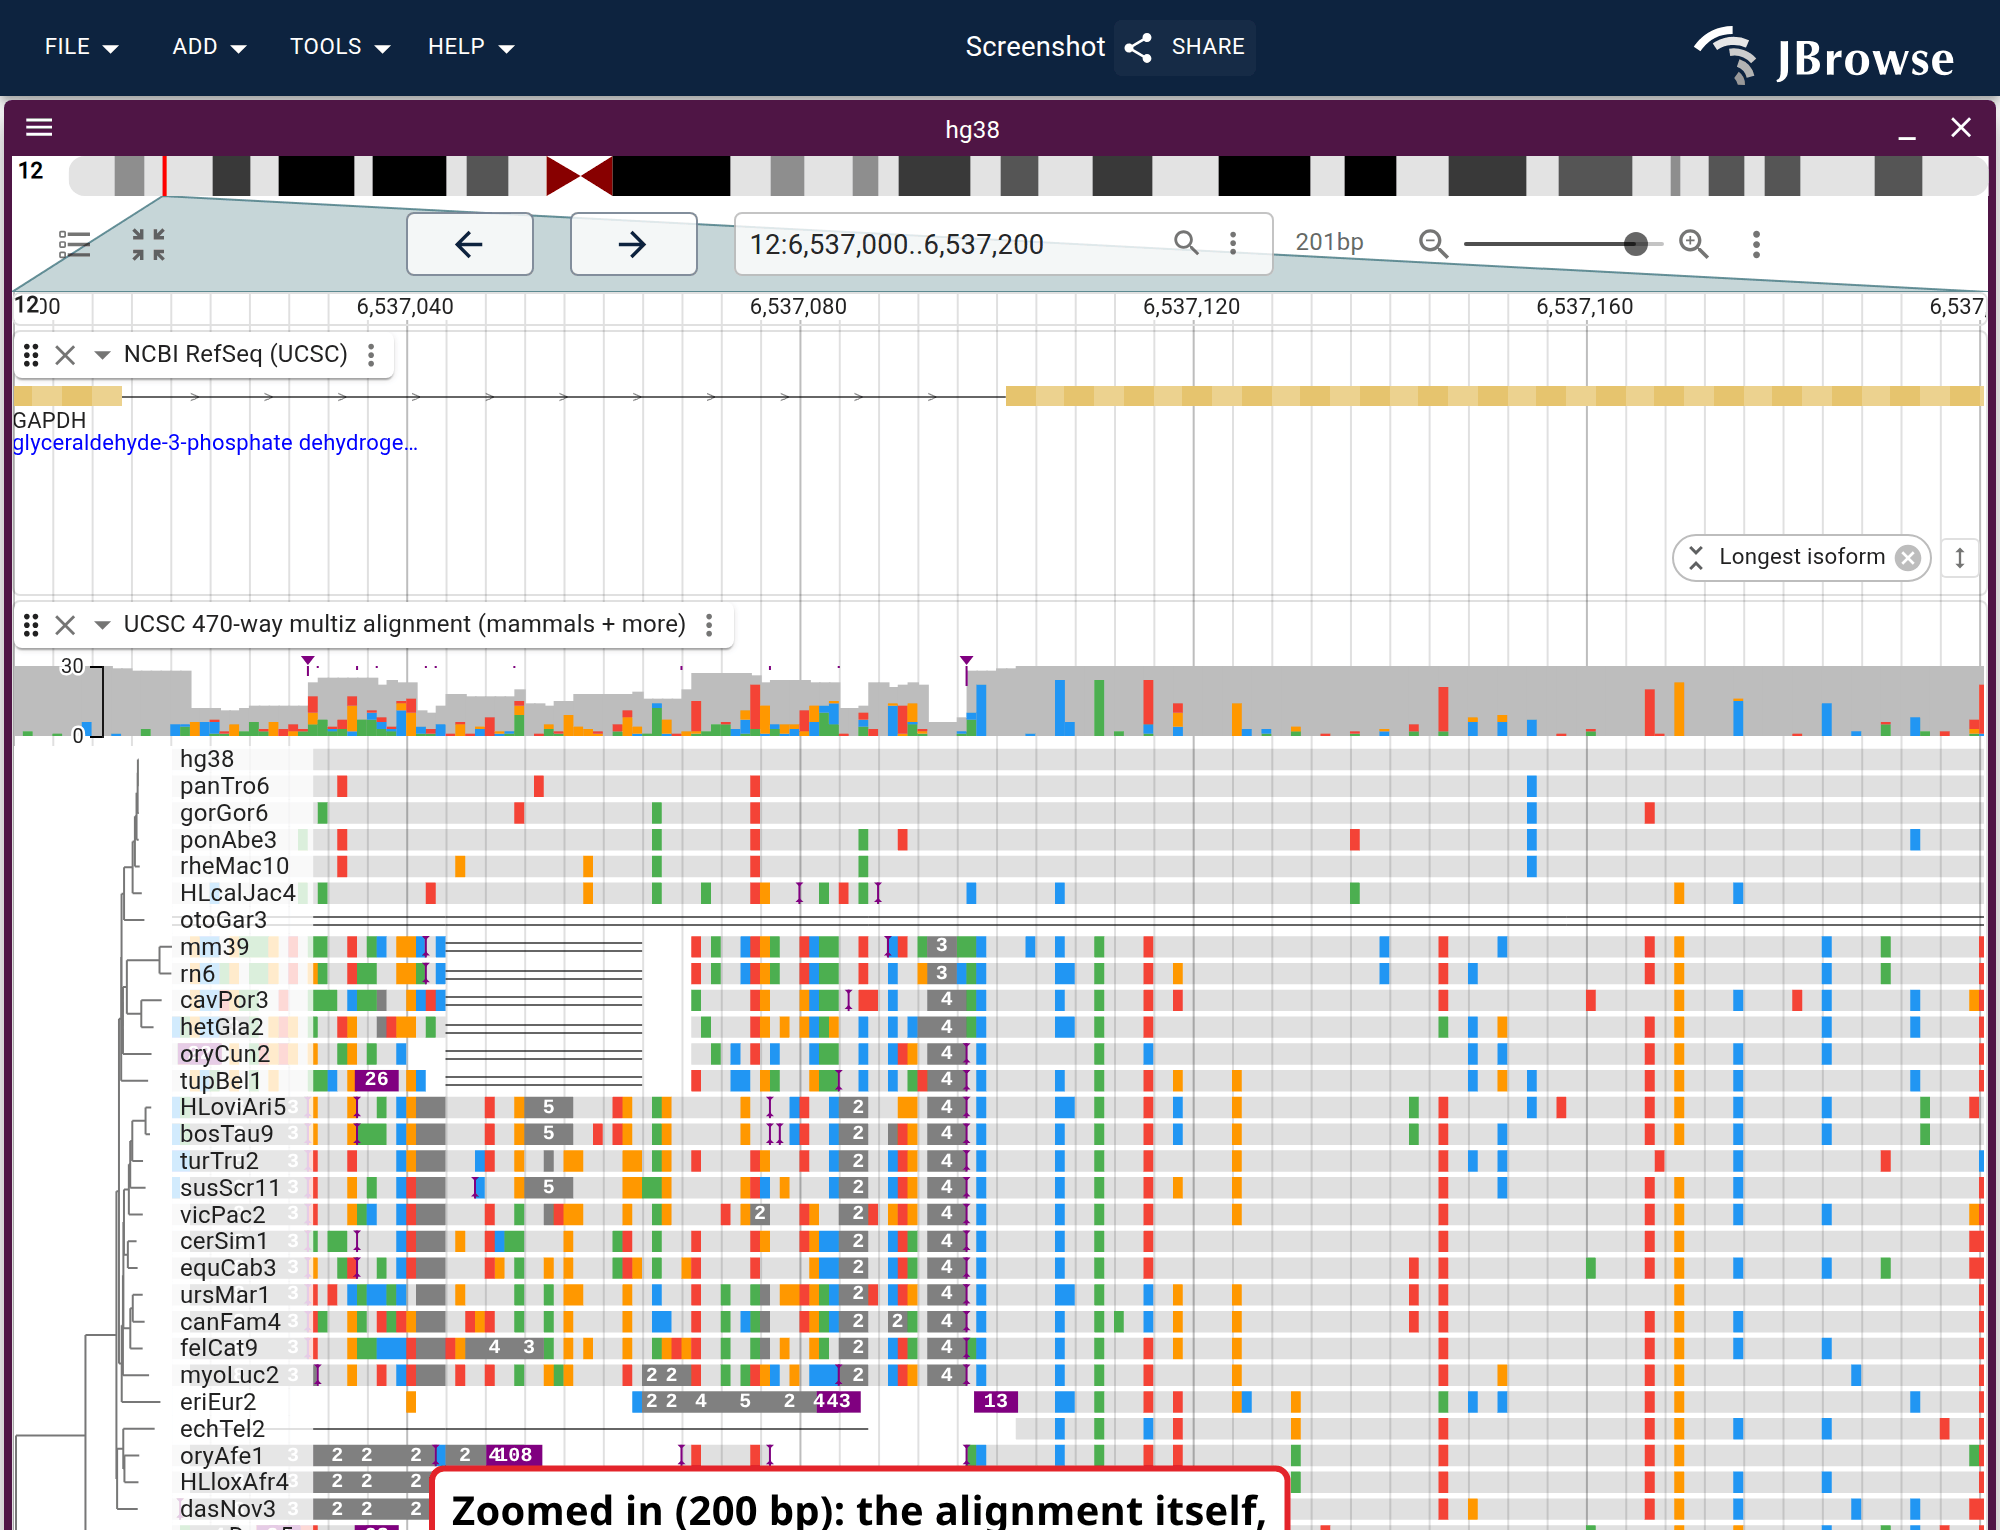
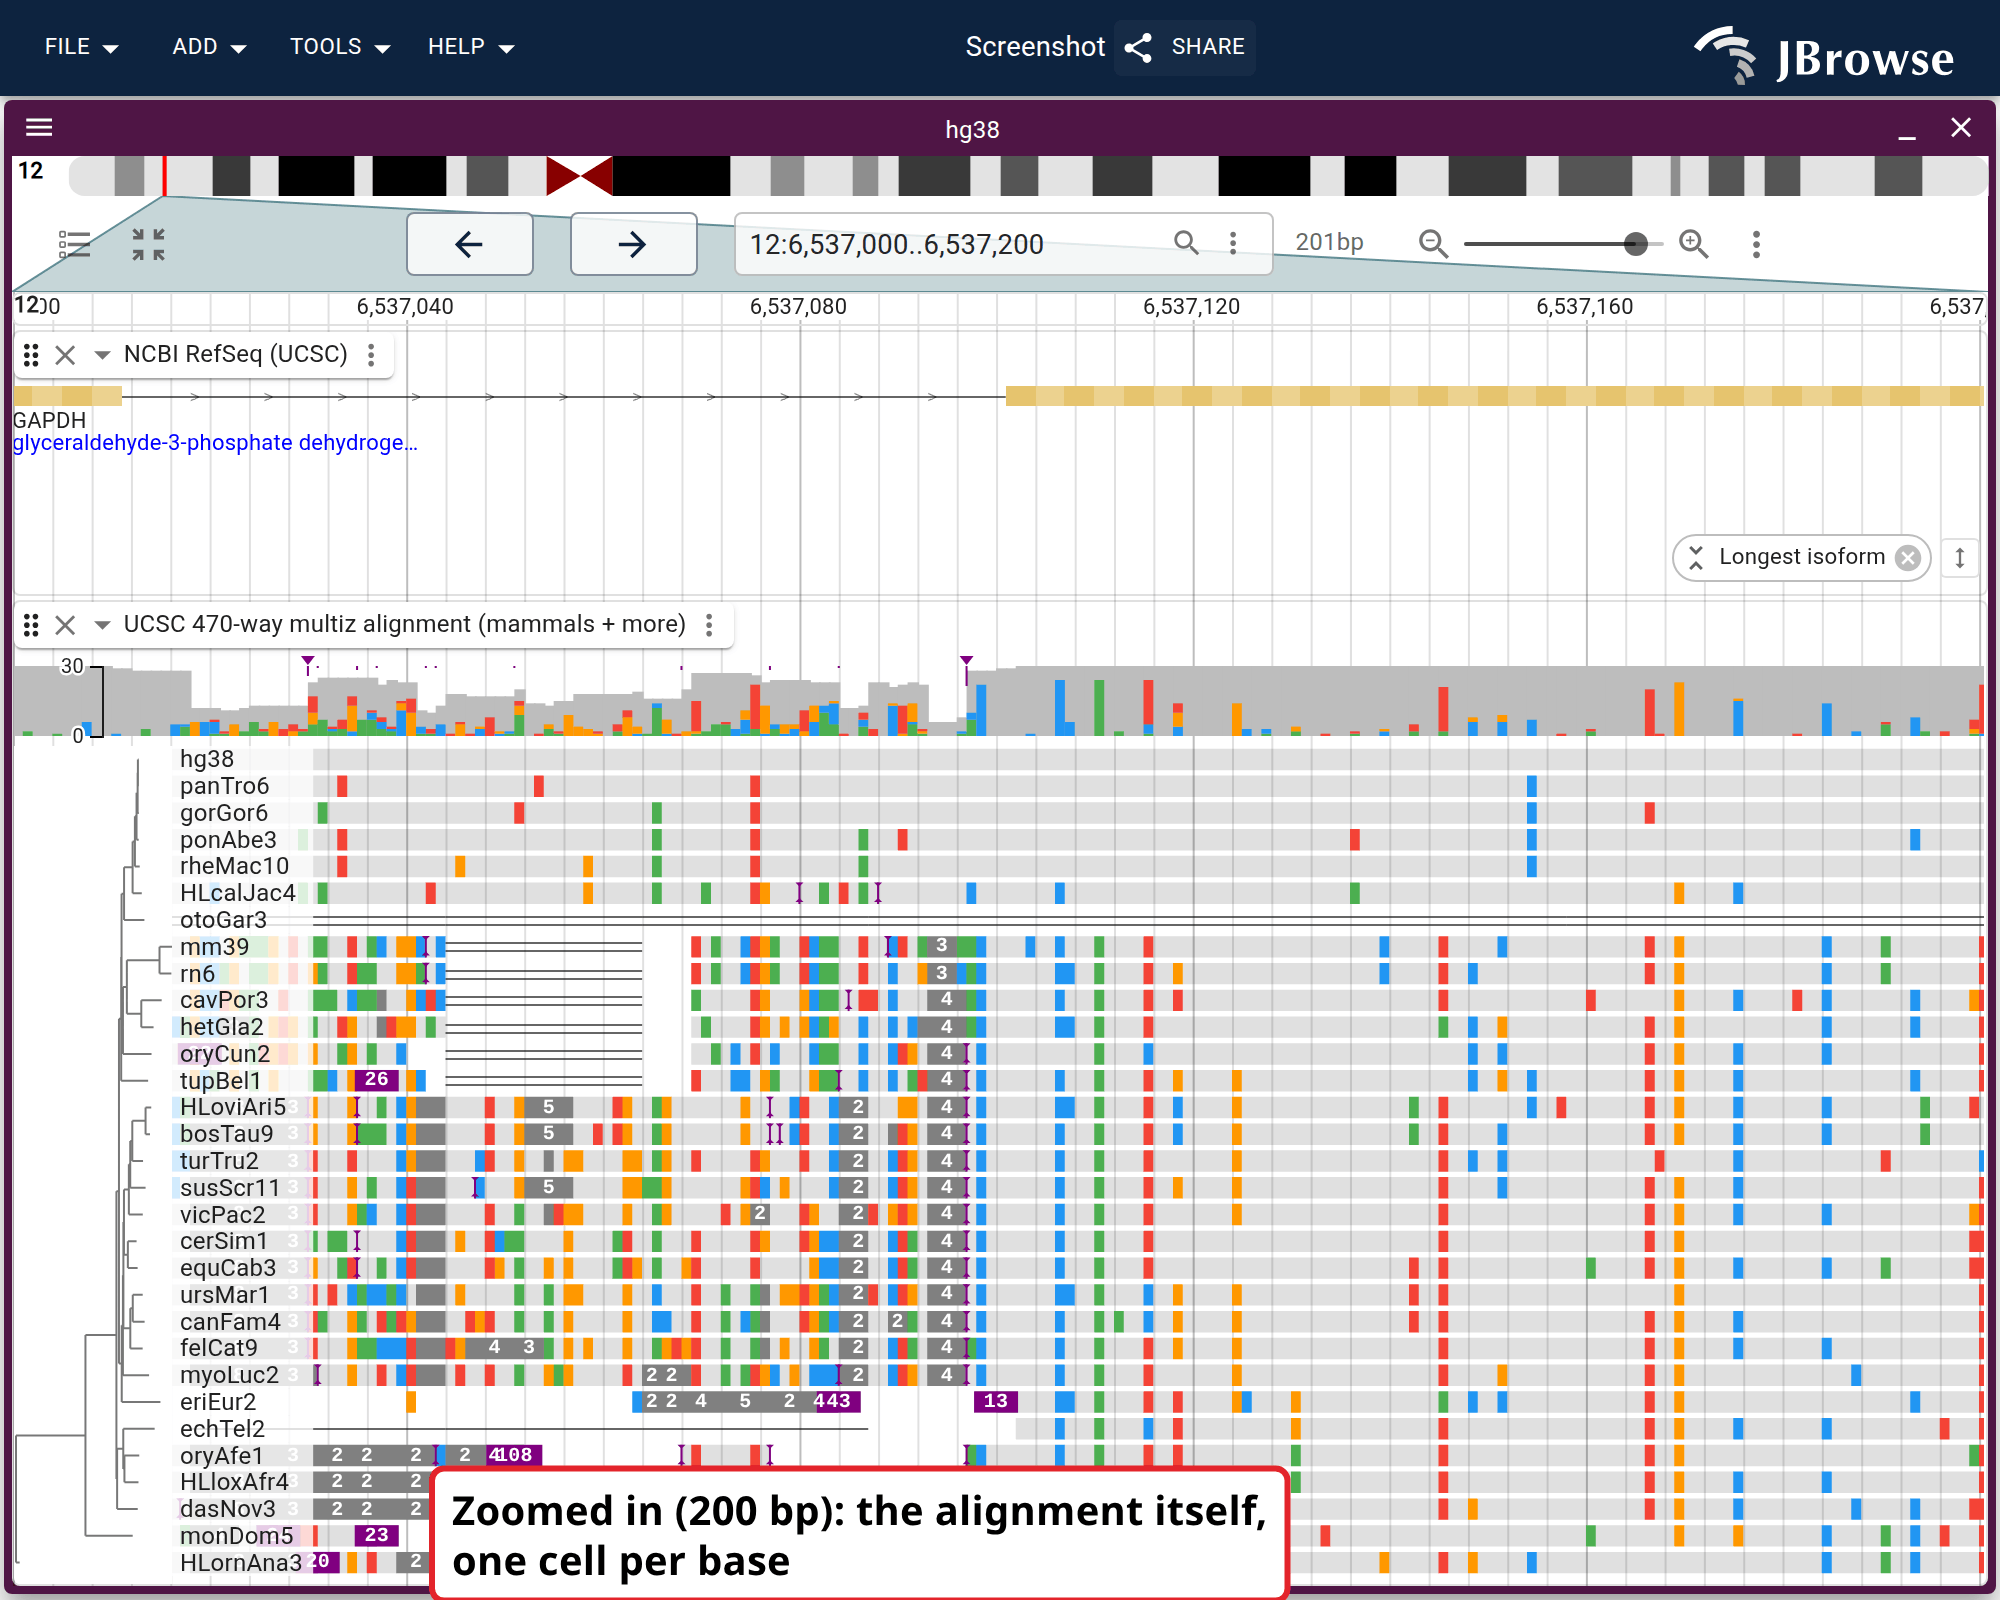
fix(maf): the summary tier drew its bars under a loading scrim that never lifted
`activeRowRendering` resolves to `bases` on the summary path because none of
the selectable alternatives can draw from summary rows. `basesRenderingActive`
read that as "the GPU base canvas owns the rows" — but it doesn't:
`fetchMafSummaryData` clears `rpcDataMap` on purpose and the rows on screen are
the summary overlay's. So the render callback painted from the empty map,
`renderBlocks` reported `painted: false` every frame, `canvasDrawn` never
flipped, and `computeLoadingTerm`'s `rendersCanvas && !canvasDrawn` pinned the
display in `loading` over a fully loaded, visibly correct track.

Nothing caught it because the bars underneath rendered right the whole time —
the defect was only in what the display reported about itself, which is also
why it took a screenshot spec timing out on the settle gate to surface.

Splits the two questions and pins both directions in rowRendering.test.ts.

With the scrim gone the figures render: the pair's viewportHeight was 765 on a
guess that it would need trimming, and the run reports it was clipping the
annotation's second line by 32.3px instead.

Claude-Session: https://claude.ai/code/session_01Et91K5JoChbpuAERvgq4uR

diff --git a/plugins/maf/src/LinearMafDisplay/stateModel.ts b/plugins/maf/src/LinearMafDisplay/stateModel.ts
@@ -1597,9 +1597,22 @@ export default function stateModelFactory(
          * the insertion click, and SVG export — and a mode added to
          * `activeRowRendering` has to reach all six or the markers keep drawing
          * over a rendering that isn't theirs.
+         *
+         * **Not simply `activeRowRendering === 'bases'`.** That getter answers
+         * which of the *selectable* renderings wins, and summary mode resolves
+         * to `bases` there because none of the alternatives can draw from
+         * summary rows. But the base canvas can't draw from them either:
+         * `fetchMafSummaryData` clears `rpcDataMap` on purpose, and the rows the
+         * user sees are the summary overlay's. So the two questions genuinely
+         * differ here, and answering this one with that one pinned the display
+         * in `loading` forever — the render callback took the paint-from-
+         * `rpcDataMap` branch, `renderBlocks` returned `painted: false` over an
+         * empty map every frame, and `canvasDrawn` never flipped, so
+         * `computeLoadingTerm`'s `rendersCanvas && !canvasDrawn` stayed true
+         * under a track that was fully loaded and visibly drawn.
          */
         get basesRenderingActive() {
-          return self.activeRowRendering === 'bases'
+          return self.activeRowRendering === 'bases' && !self.showSummary
         },
         /**
          * #getter
@@ -2012,11 +2025,14 @@ export default function stateModelFactory(
                     self.renderState,
                   )
                 } else {
-                  // Zoomed out the identity plot owns the visible rows, on a
+                  // Zoomed out the identity plot — or, past the summary
+                  // threshold, the summary bars — owns the visible rows, on a
                   // sibling canvas. Render no blocks so this canvas clears to
-                  // transparent and the identity one shows through — a cleared
-                  // frame nothing painted into, but still a real paint for
+                  // transparent and the sibling shows through — a cleared frame
+                  // nothing painted into, but still a real paint for
                   // canvasDrawn, since the rows the user sees did get drawn.
+                  // Returning false here instead is what left summary mode
+                  // scrimmed forever; see `basesRenderingActive`.
                   b.renderBlocks([], self.rpcDataMap, self.renderState)
                   return true
                 }

diff --git a/plugins/maf/src/LinearMafDisplay/rowRendering.test.ts b/plugins/maf/src/LinearMafDisplay/rowRendering.test.ts
@@ -143,6 +143,42 @@ describe('what paints is the selection, overridden only by zoom and summary', ()
     }
   })
 
+  // ...and the base canvas can't draw from it either. `activeRowRendering`
+  // resolving to `bases` above says only that no *alternative* applies; the
+  // summary fetch clears `rpcDataMap` on purpose and the rows on screen are the
+  // summary overlay's. Reading the second question off the first pinned the
+  // display in `loading` forever: the render callback painted from the empty
+  // map, `renderBlocks` reported `painted: false` every frame, `canvasDrawn`
+  // never flipped, and the scrim sat over a fully loaded track. Nothing caught
+  // it because the summary bars underneath rendered correctly the whole time.
+  it('does not hand the rows to the base canvas on the summary path', () => {
+    const { display, view } = framesEnv({
+      summaryAdapter: { type: 'BigBedAdapter' },
+    }).createDisplay()
+    zoomAndSettle(view, 100)
+    expect(display.showSummary).toBe(true)
+
+    expect(display.activeRowRendering).toBe('bases')
+    expect(display.basesRenderingActive).toBe(false)
+
+    // and the per-base overlays that gate on it stay off, so no frame pays for
+    // markers drawn over a rendering that isn't theirs
+    expect(display.visibleLabels).toEqual([])
+    expect(display.visibleInsertions).toEqual([])
+  })
+
+  // The same track below the floor takes the real alignment path, so the base
+  // canvas owns the rows again — the exclusion above is the summary path's, not
+  // a blanket "a summary adapter is configured".
+  it('hands the rows back to the base canvas below the summary floor', () => {
+    const { display, view } = framesEnv({
+      summaryAdapter: { type: 'BigBedAdapter' },
+    }).createDisplay()
+    zoomAndSettle(view, 0.5)
+    expect(display.showSummary).toBe(false)
+    expect(display.basesRenderingActive).toBe(true)
+  })
+
   // The state the old menu of independent checkboxes could reach, and a
   // hand-written config still can. Re-deriving precedence let the losing slot
   // take over at the zooms where the winner couldn't draw, so the menu ticked

diff --git a/website/scripts/specs/maf.ts b/website/scripts/specs/maf.ts
@@ -466,10 +466,11 @@ export const mafSpecs: ScreenshotSpec[] = [
     readyText: '12',
     readyTimeout: 120000,
     viewportWidth: 1000,
-    // the height maf_470way_codon settled on for the same 30 rows at the same
-    // 460px display height; this pair shows no conservation band, so a first
-    // render will report blank space to trim rather than clipping
-    viewportHeight: 765,
+    // 765 (what maf_470way_codon settled on for the same 30 rows at the same
+    // 460px display height) guessed wrong in the other direction: the run
+    // reported 32.3 css px CLIPPED below the fold, not blank space to trim, and
+    // what it cut was the annotation's second line. Raised by that measurement.
+    viewportHeight: 800,
     settleMs: 18000,
     hideTooltip: true,
     annotations: [
@@ -478,9 +479,7 @@ export const mafSpecs: ScreenshotSpec[] = [
         text: label,
         fontSize: 20,
         // bottom-left of the track band, `dx` clear of the tree sidebar and its
-        // species names. UNVERIFIED — UCSC was unreachable, so this placement
-        // has never been seen against a real capture; check it before trusting
-        // the figure.
+        // species names.
         anchor: {
           track: 'hg38.multiz470way',
           alignX: 'left' as const,
